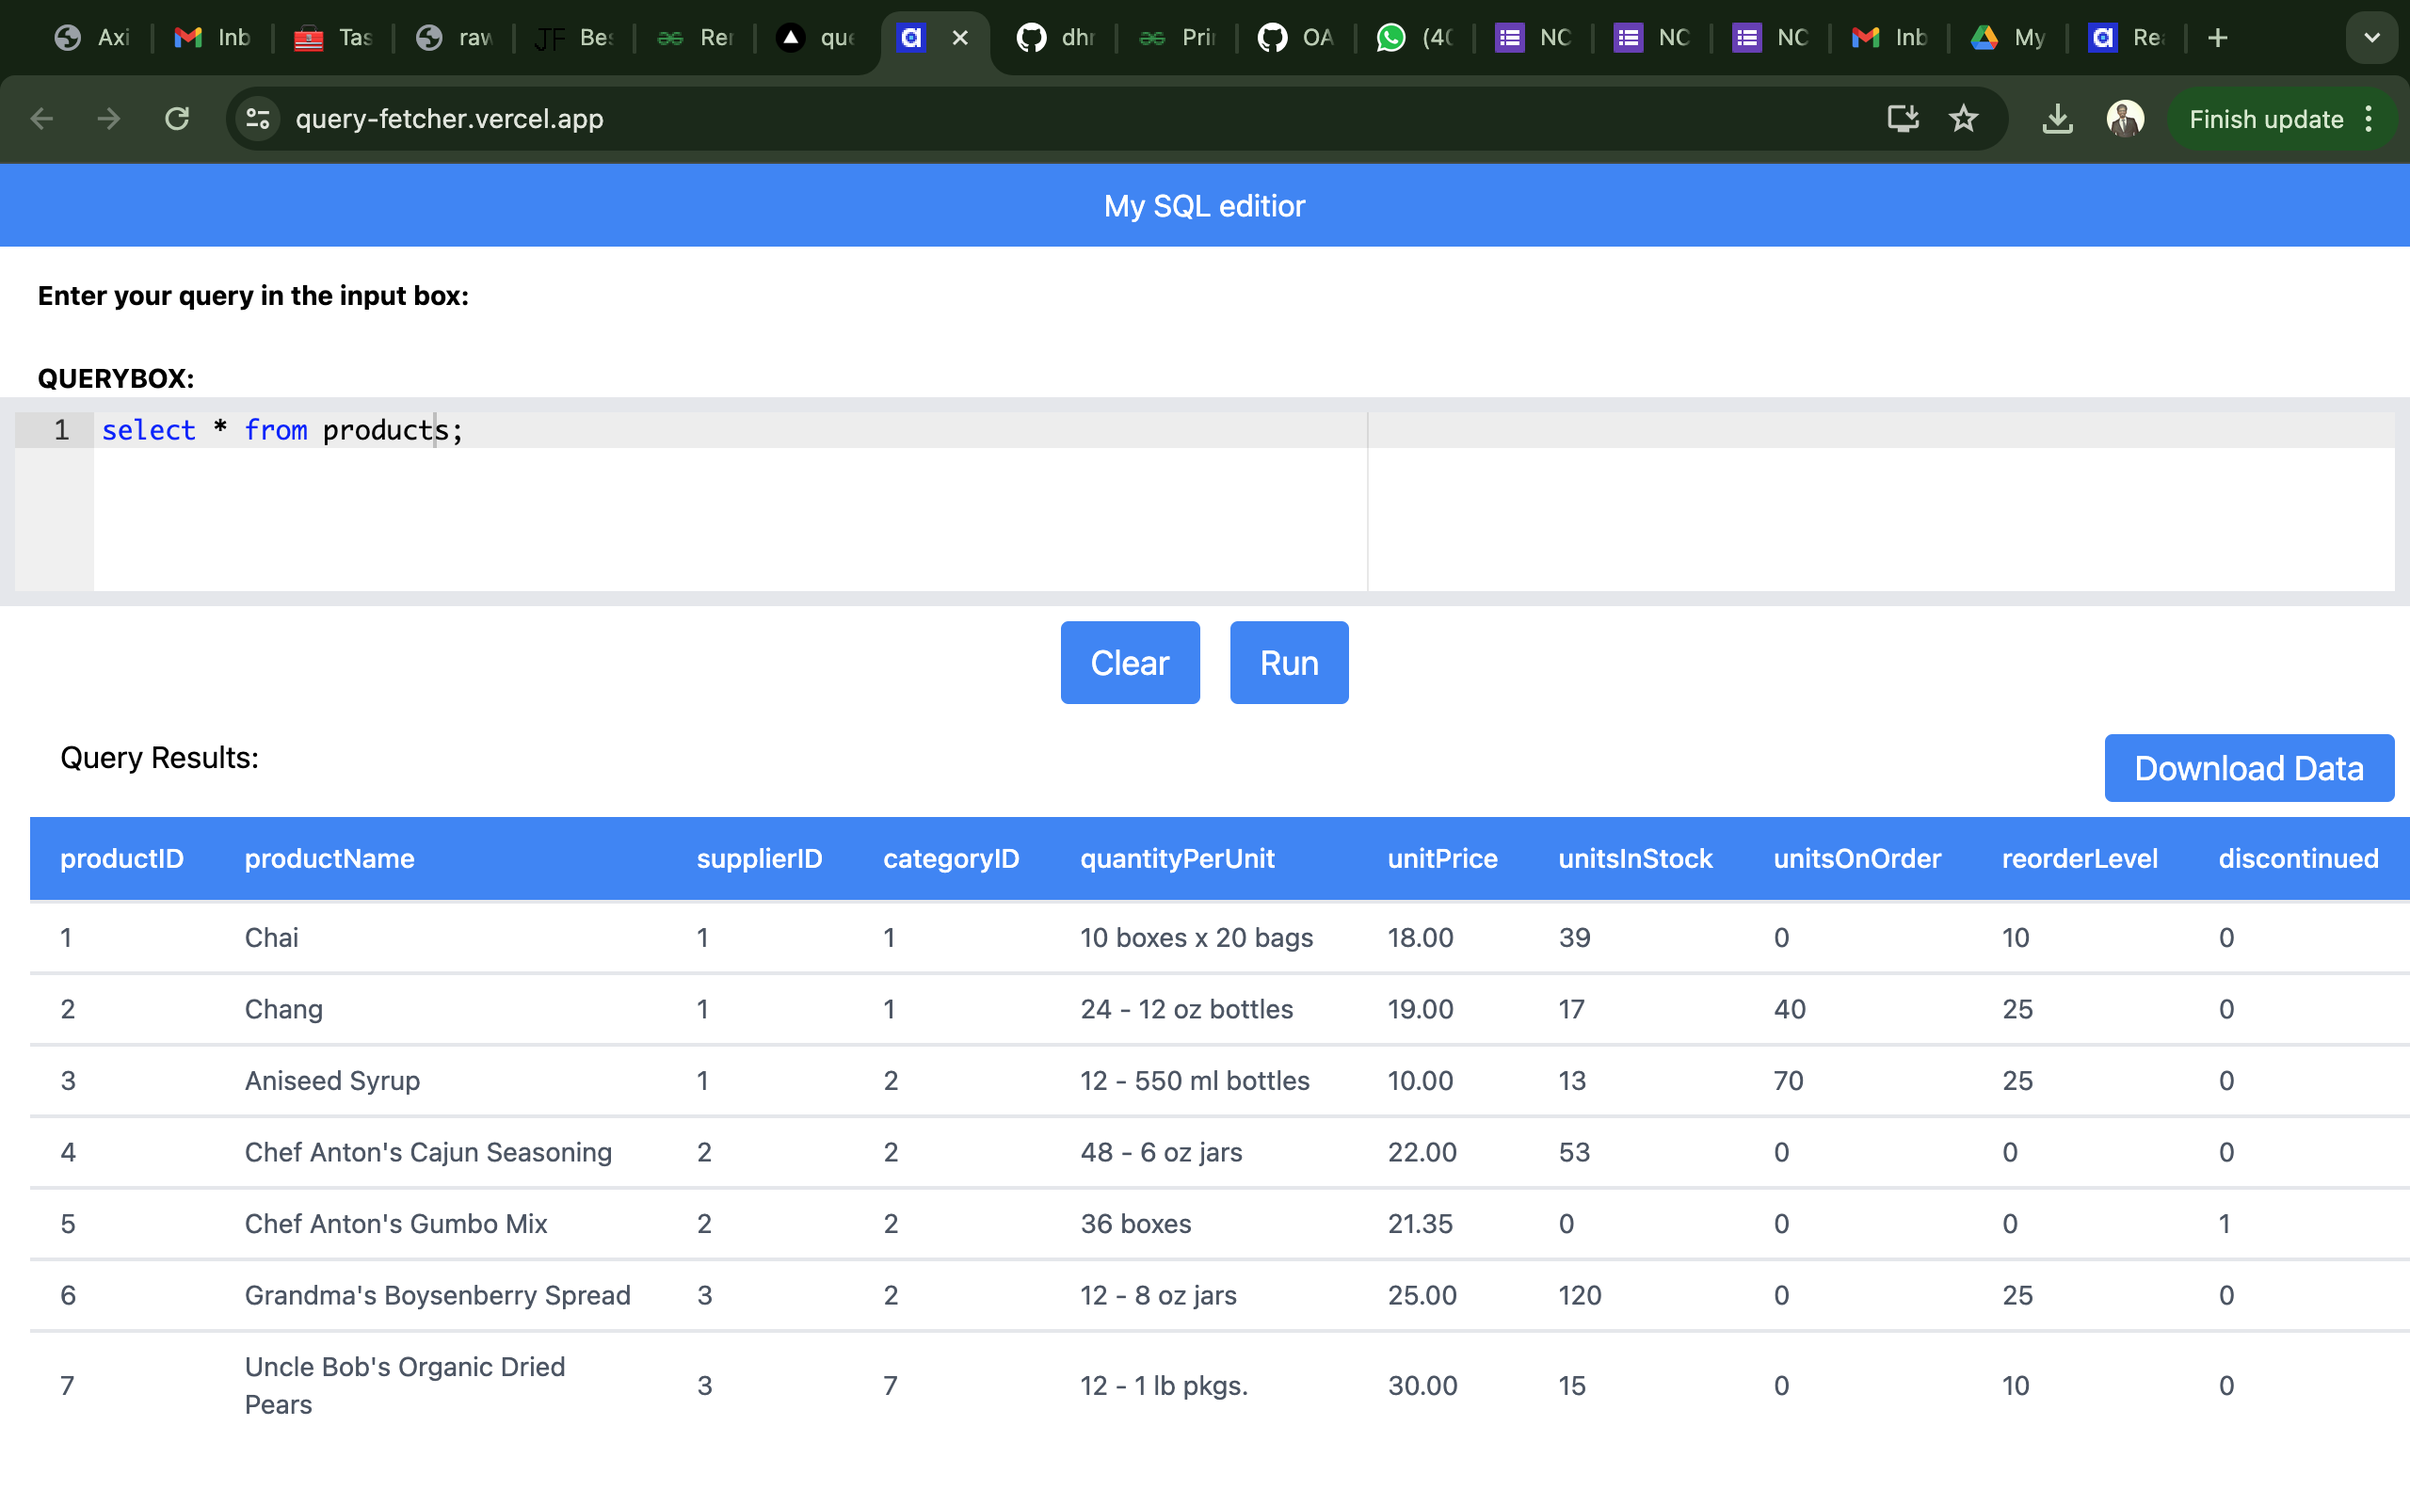
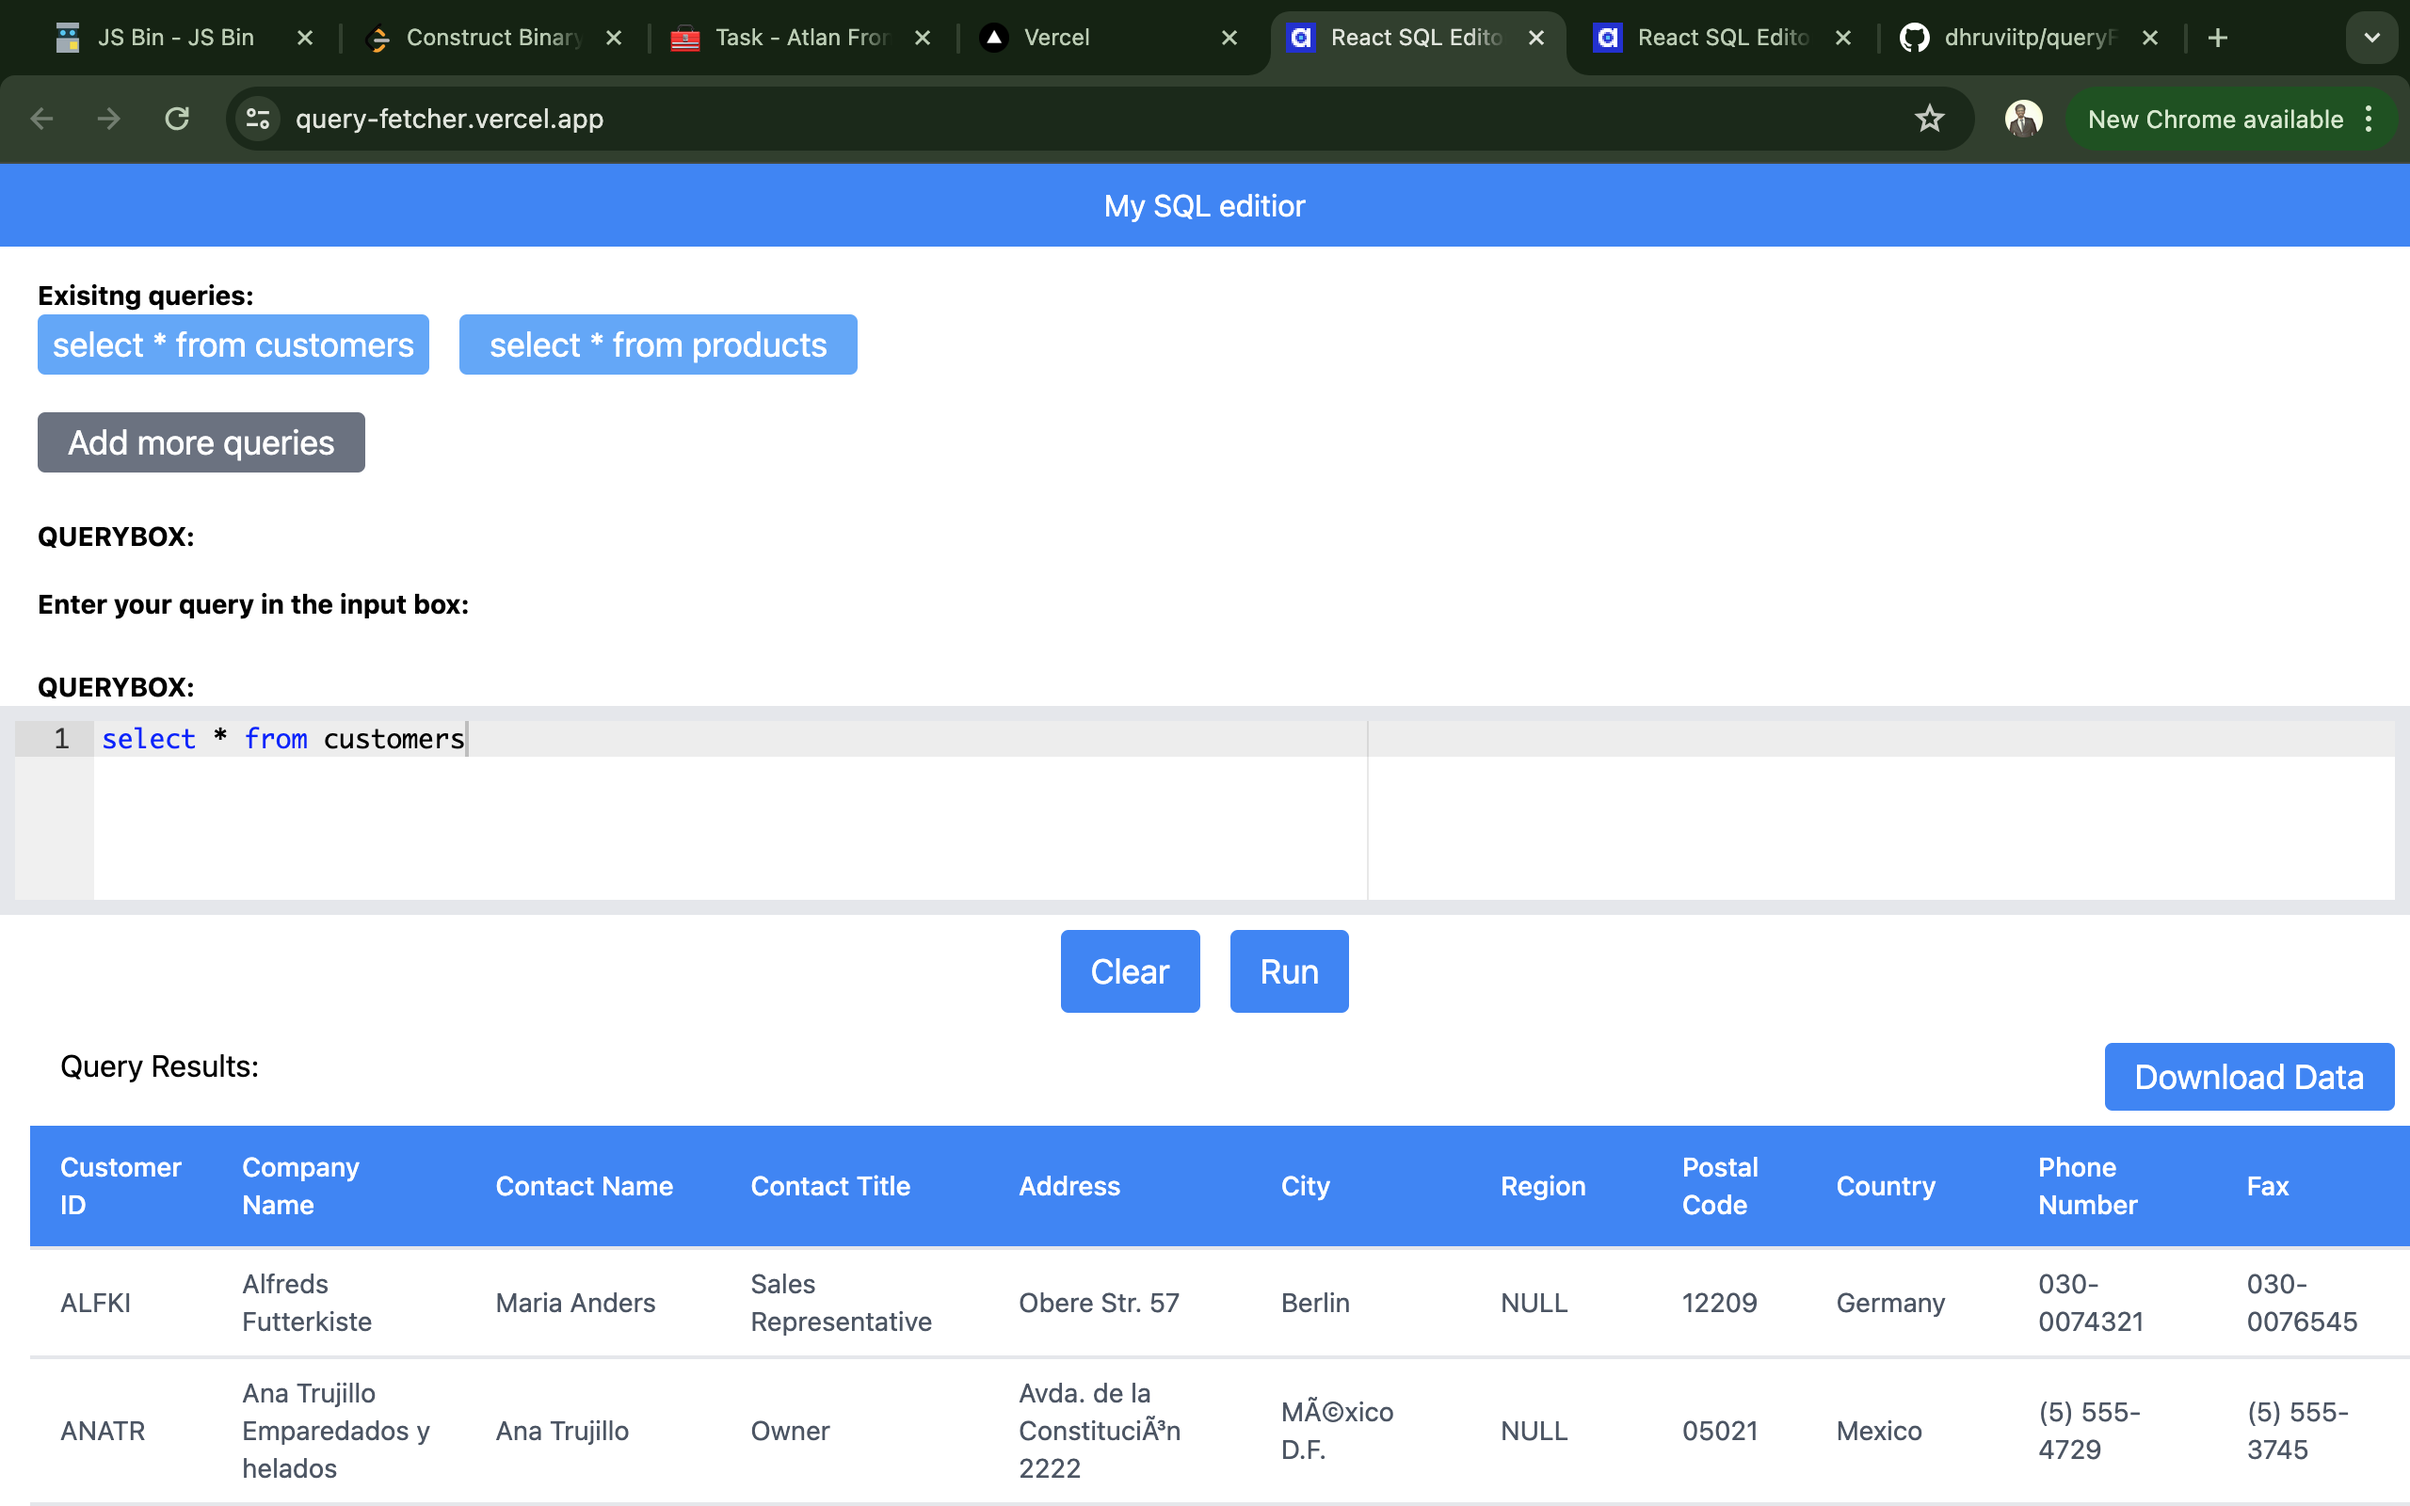
new changes

diff --git a/src/App.js b/src/App.js
@@ -46,7 +46,7 @@ function App() {
                       onClick={() => {
                         setValue(queries[0]);
                       }}
-                      className="text-sm flex text-white bg-blue-400 border-0 py-2 h-8 px-2 focus:outline-none hover:bg-indigo-600 rounded text-lg justify-center items-center"
+                      className="text-sm flex text-white bg-blue-500 border-0 py-2 h-8 px-2 focus:outline-none hover:bg-indigo-600 rounded text-lg justify-center items-center"
                     >
                       {queries[0]}
                     </button>
@@ -57,7 +57,7 @@ function App() {
                       onClick={() => {
                         setValue(queries[1]);
                       }}
-                      className="text-sm flex text-white bg-blue-400 border-0 py-2 h-8 px-4 focus:outline-none hover:bg-indigo-600 rounded text-lg justify-center items-center mx-4"
+                      className="text-sm flex text-white bg-blue-500 border-0 py-2 h-8 px-4 focus:outline-none hover:bg-indigo-600 rounded text-lg justify-center items-center mx-4"
                     >
                       {queries[1]}
                     </button>
